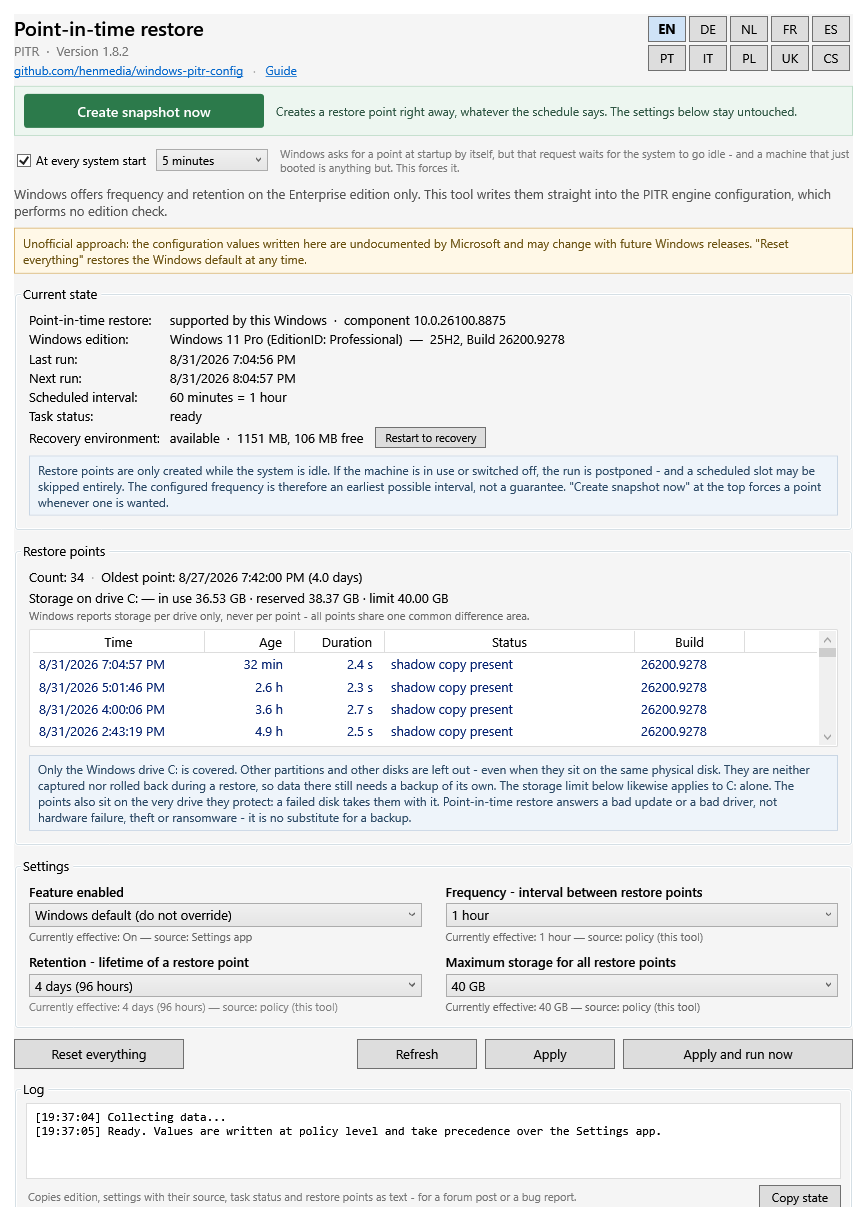
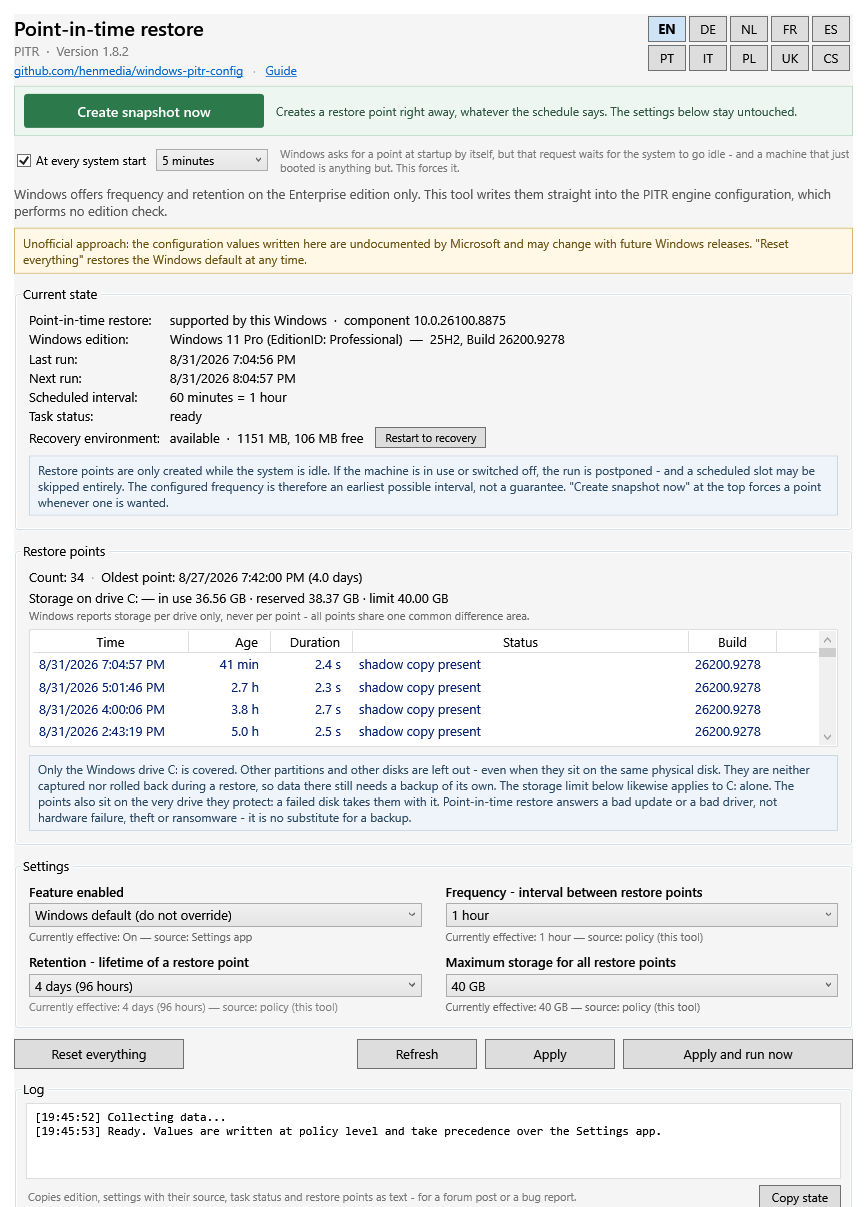
Set the table's column widths from a measurement
The Status column cut off its own text: across all ten languages it needs
326 px - Spanish "desconocido (se requieren permisos de administrador)" is the
longest - and it had 250. Widening it to 250 earlier in this release was a
guess, and the guess was too small.

All five widths now come from the same measurement: per column the widest value
that can occur in any language, against the widest heading, plus padding. Time
is sized for the US format with AM/PM, because dates follow the user's region
and not the interface language, so the longest region has to fit even in a
German window.

  Time 172 -> 156, Age 90 -> 82, Duration 90 -> 82, Status 250 -> 336,
  Build 110 -> 88.  Total 712 -> 744.

The table therefore cannot be made narrower: 728 px is its floor, and it was
sitting below it. What looked like slack was three oversized columns paying for
one that was too small.

diff --git a/CHANGELOG.md b/CHANGELOG.md
@@ -19,9 +19,6 @@ Notable changes are recorded here. The format follows
   per column, 18 to spare. Checked in every language by measuring the captions' rendered
   height, so a wrap would show up as a number rather than something to spot by eye.
 
-- The *Status* column of the restore point list grew from 190 to 250 pixels, using some of the
-  new width. "unknown (needs admin rights)" was cut off there in several languages.
-
 ### Fixed
 
 - The column headers of the restore point list looked clickable and were not. *Time*, *Status*
@@ -39,6 +36,14 @@ Notable changes are recorded here. The format follows
   in the stock header template. *Age* and *Duration* had already lost it in 1.7.1 for the same
   reason. The widths are fixed and now fit their content — which is why *Status* was widened in
   the same release.
+
+- The *Status* column of the restore point list cut its own text off. Measured across all ten
+  languages it needs 326 px — Spanish "desconocido (se requieren permisos de administrador)" is
+  the longest — and it had 250. All five column widths are now derived from a measurement
+  rather than an estimate: per column, the widest value that can appear in any language against
+  the widest heading, plus the padding. *Time* follows the US format with AM/PM, because dates
+  follow the user's region rather than the interface language, so the longest region has to fit.
+  The table ends up 744 px wide instead of 712, which the window carries without growing.
 
 - The *Duration* column used a fixed `s` and `min` while the *Age* column right beside it used
   the translated abbreviations. Two spellings of the same unit ended up next to each other: in
